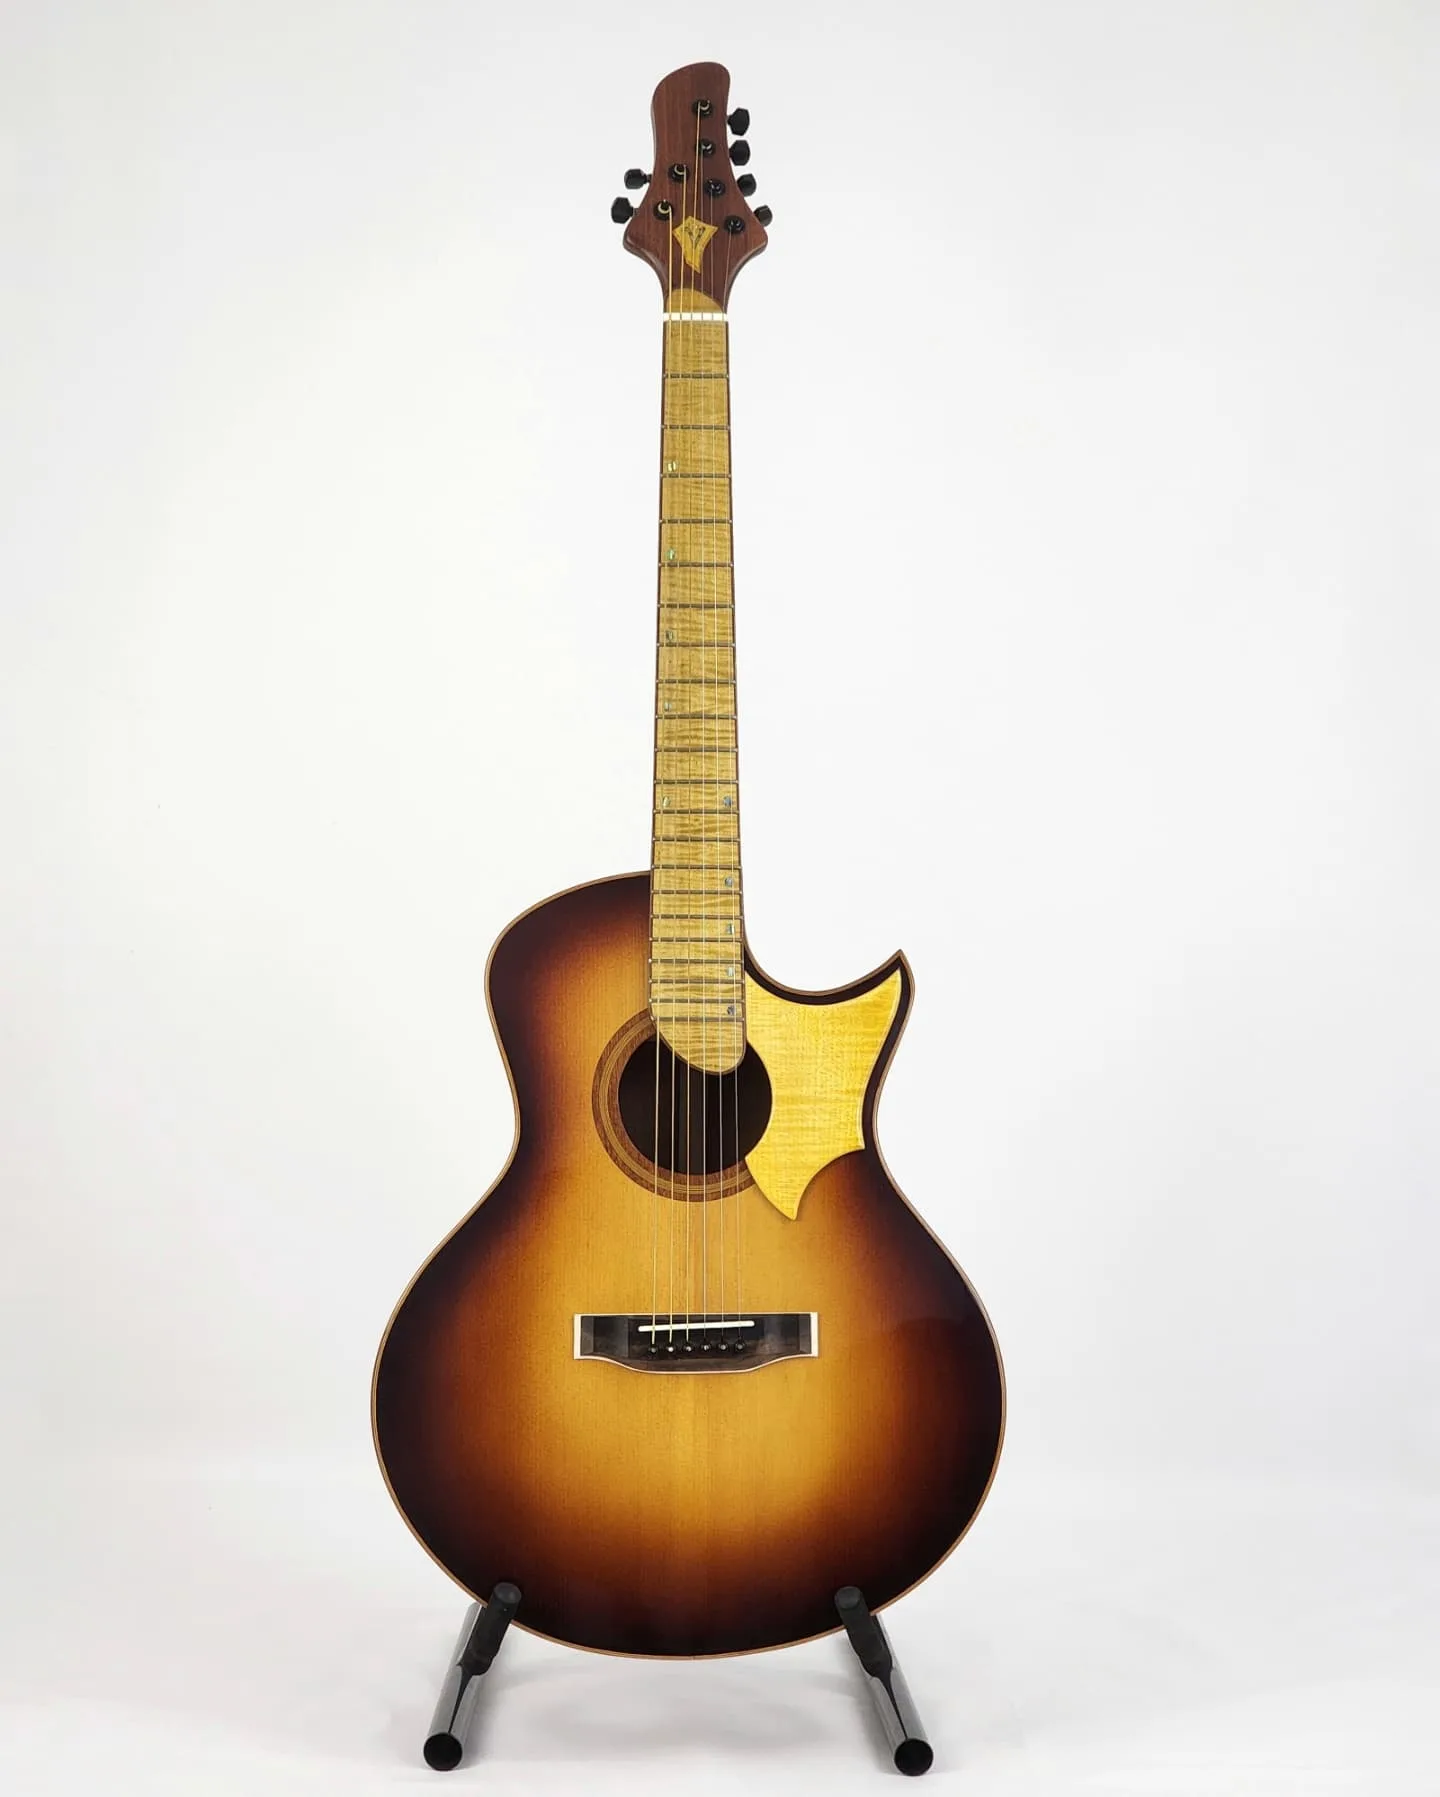
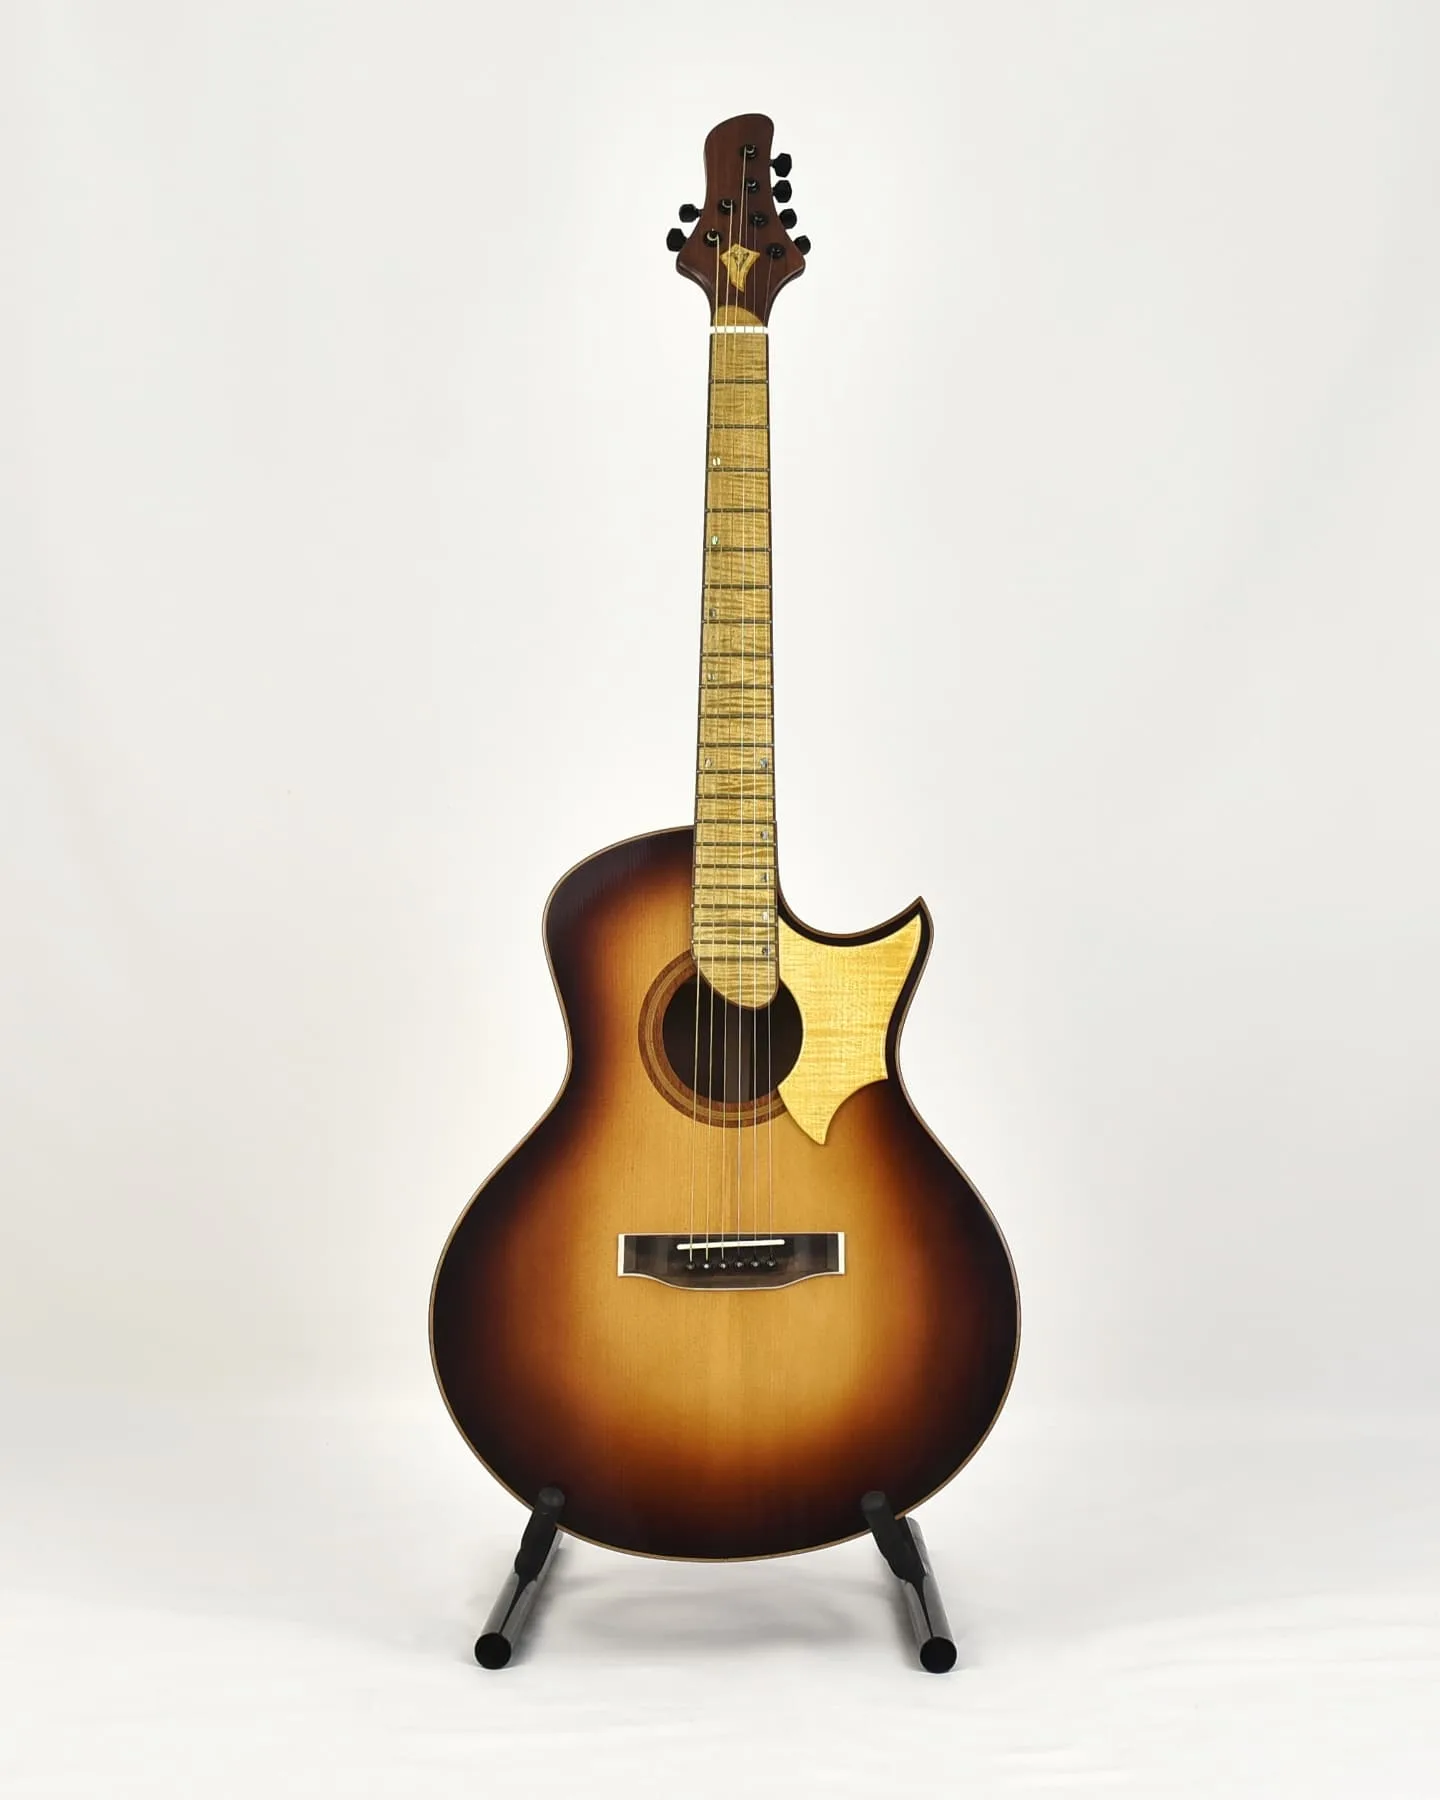
Pyrocaster finalize

Changed region(s): [[0.25, 0.0312, 0.7188, 0.9972]]

diff --git a/src/content/guitars/003-pyrocaster.md b/src/content/guitars/003-pyrocaster.md
@@ -75,4 +75,4 @@ specs:
 
 Breaking new ground: the first electric guitar to come out of the workshop.
 
-Built with the same obsessive attention to detail as the acoustics, and elevated by the striking visual concept from [Pyrohyper](https://www.instagram.com/pyrohyper) — an alder burl top over a single piece of ash, a neck laminated from flamed maple, fossilized oak and mahogany, and hardware chosen for stability and precision. It sounds just as powerful as it looks.
+Built with the obsessive attention to detail, and elevated by the striking visual concept from [@pyrohyper](https://www.instagram.com/pyrohyper). An alder burl top over a single piece of ash, a neck laminated from flamed maple, fossilized oak and mahogany, for stability and precision. It sounds just as powerful as it looks.
